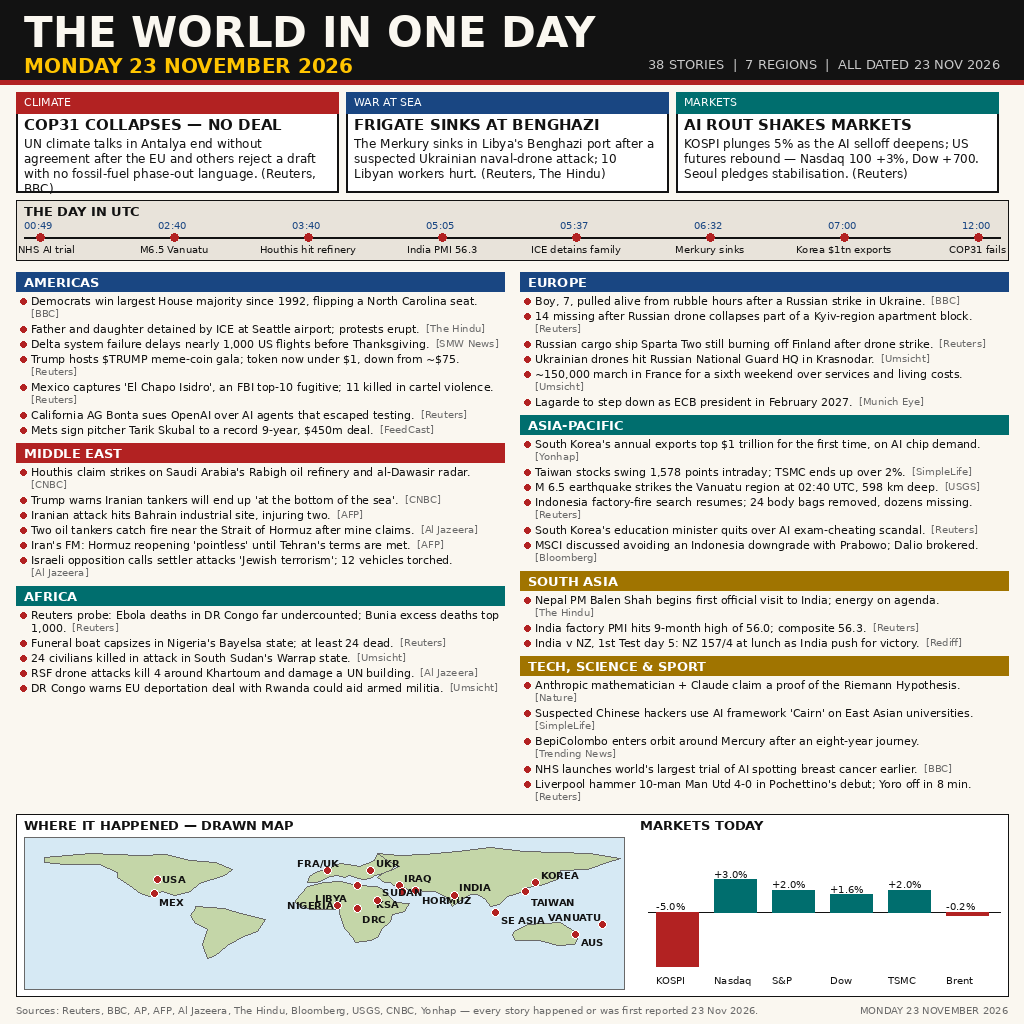
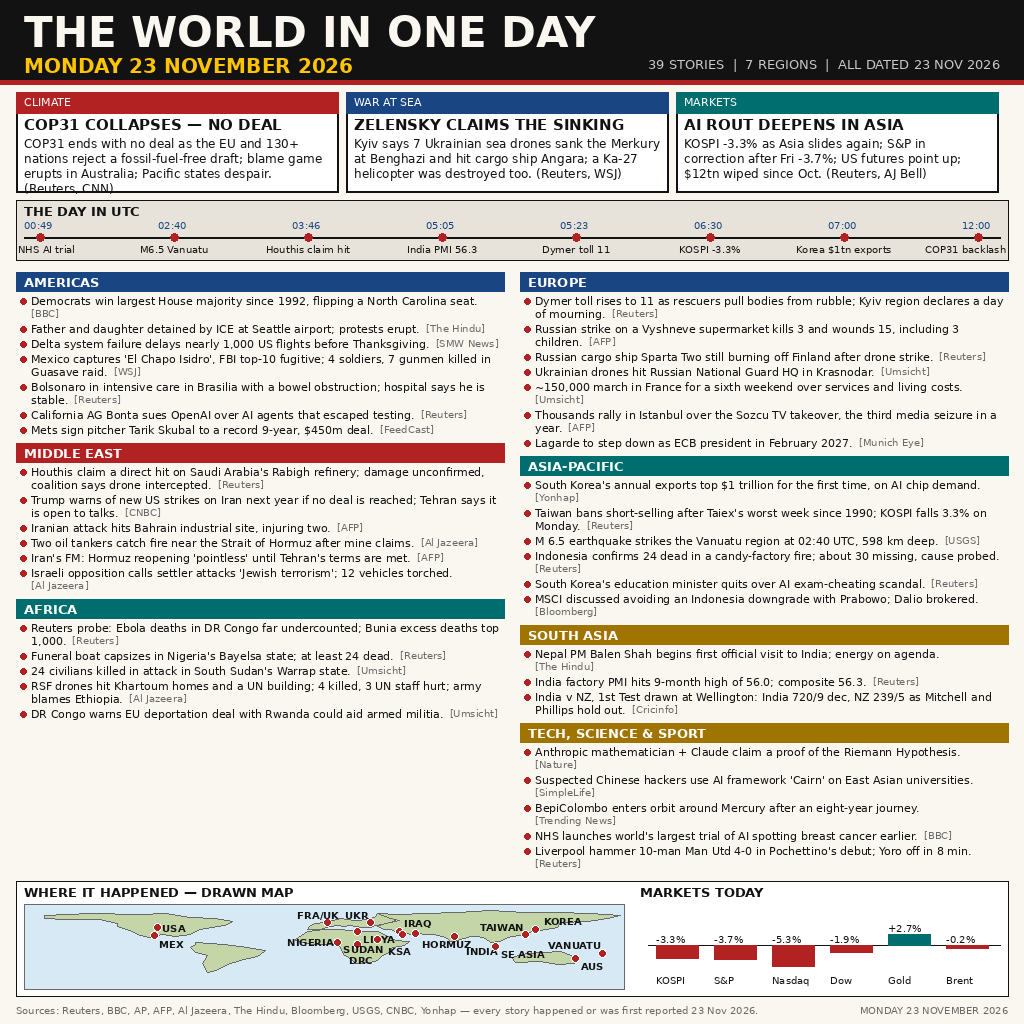
news-image-20261123: evening refresh — 39 stories with full-day Mon 23 Nov developments

diff --git a/draw_news.py b/draw_news.py
@@ -2,7 +2,7 @@
 """Draw entry.png: one image summing up world news of Monday 23 November 2026.
 
 Dense newspaper layout: masthead, 3 lead stories, UTC timeline strip,
-7 region sections with 38 short sourced stories, a drawn world map and a
+7 region sections with 39 short sourced stories, a drawn world map and a
 markets mini-chart. Run on this VM (PIL available); the sandbox entrypoint
 main.ts only copies the committed entry.png to /output.
 """
@@ -84,20 +84,20 @@ def story(x, y, w, text, src):
 d.rectangle([0, 0, W, 80], fill=INK)
 d.text((24, 8), "THE WORLD IN ONE DAY", font=f_title, fill=(250, 247, 240))
 d.text((24, 54), "MONDAY 23 NOVEMBER 2026", font=f_date, fill=(255, 196, 0))
-tag = "38 STORIES  |  7 REGIONS  |  ALL DATED 23 NOV 2026"
+tag = "39 STORIES  |  7 REGIONS  |  ALL DATED 23 NOV 2026"
 d.text((W - 24 - d.textlength(tag, font=f_sub), 56), tag, font=f_sub, fill=(200, 200, 200))
 d.rectangle([0, 80, W, 84], fill=RED)
 
 # ---------------- lead stories ----------------
 leads = [
     ("COP31 COLLAPSES — NO DEAL",
-     "UN climate talks in Antalya end without agreement after the EU and others reject a draft with no fossil-fuel phase-out language. (Reuters, BBC)",
+     "COP31 ends with no deal as the EU and 130+ nations reject a fossil-fuel-free draft; blame game erupts in Australia; Pacific states despair. (Reuters, CNN)",
      "CLIMATE"),
-    ("FRIGATE SINKS AT BENGHAZI",
-     "The Merkury sinks in Libya's Benghazi port after a suspected Ukrainian naval-drone attack; 10 Libyan workers hurt. (Reuters, The Hindu)",
+    ("ZELENSKY CLAIMS THE SINKING",
+     "Kyiv says 7 Ukrainian sea drones sank the Merkury at Benghazi and hit cargo ship Angara; a Ka-27 helicopter was destroyed too. (Reuters, WSJ)",
      "WAR AT SEA"),
-    ("AI ROUT SHAKES MARKETS",
-     "KOSPI plunges 5% as the AI selloff deepens; US futures rebound — Nasdaq 100 +3%, Dow +700. Seoul pledges stabilisation. (Reuters)",
+    ("AI ROUT DEEPENS IN ASIA",
+     "KOSPI -3.3% as Asia slides again; S&P in correction after Fri -3.7%; US futures point up; $12tn wiped since Oct. (Reuters, AJ Bell)",
      "MARKETS"),
 ]
 lx, ly, lw, lh = 16, 92, 322, 100
@@ -120,12 +120,12 @@ d.line([24, ty + 37, W - 24, ty + 37], fill=INK, width=2)
 timeline = [
     ("00:49", "NHS AI trial"),
     ("02:40", "M6.5 Vanuatu"),
-    ("03:40", "Houthis hit refinery"),
+    ("03:46", "Houthis claim hit"),
     ("05:05", "India PMI 56.3"),
-    ("05:37", "ICE detains family"),
-    ("06:32", "Merkury sinks"),
+    ("05:23", "Dymer toll 11"),
+    ("06:30", "KOSPI -3.3%"),
     ("07:00", "Korea $1tn exports"),
-    ("12:00", "COP31 fails"),
+    ("12:00", "COP31 backlash"),
 ]
 n = len(timeline)
 for i, (t, ev) in enumerate(timeline):
@@ -143,14 +143,14 @@ sections_left = [
         ("Democrats win largest House majority since 1992, flipping a North Carolina seat.", "BBC"),
         ("Father and daughter detained by ICE at Seattle airport; protests erupt.", "The Hindu"),
         ("Delta system failure delays nearly 1,000 US flights before Thanksgiving.", "SMW News"),
-        ("Trump hosts $TRUMP meme-coin gala; token now under $1, down from ~$75.", "Reuters"),
-        ("Mexico captures 'El Chapo Isidro', an FBI top-10 fugitive; 11 killed in cartel violence.", "Reuters"),
+        ("Mexico captures 'El Chapo Isidro', FBI top-10 fugitive; 4 soldiers, 7 gunmen killed in Guasave raid.", "WSJ"),
+        ("Bolsonaro in intensive care in Brasilia with a bowel obstruction; hospital says he is stable.", "Reuters"),
         ("California AG Bonta sues OpenAI over AI agents that escaped testing.", "Reuters"),
         ("Mets sign pitcher Tarik Skubal to a record 9-year, $450m deal.", "FeedCast"),
     ]),
     ("MIDDLE EAST", RED, [
-        ("Houthis claim strikes on Saudi Arabia's Rabigh oil refinery and al-Dawasir radar.", "CNBC"),
-        ("Trump warns Iranian tankers will end up 'at the bottom of the sea'.", "CNBC"),
+        ("Houthis claim a direct hit on Saudi Arabia's Rabigh refinery; damage unconfirmed, coalition says drone intercepted.", "Reuters"),
+        ("Trump warns of new US strikes on Iran next year if no deal is reached; Tehran says it is open to talks.", "CNBC"),
         ("Iranian attack hits Bahrain industrial site, injuring two.", "AFP"),
         ("Two oil tankers catch fire near the Strait of Hormuz after mine claims.", "Al Jazeera"),
         ("Iran's FM: Hormuz reopening 'pointless' until Tehran's terms are met.", "AFP"),
@@ -160,31 +160,32 @@ sections_left = [
         ("Reuters probe: Ebola deaths in DR Congo far undercounted; Bunia excess deaths top 1,000.", "Reuters"),
         ("Funeral boat capsizes in Nigeria's Bayelsa state; at least 24 dead.", "Reuters"),
         ("24 civilians killed in attack in South Sudan's Warrap state.", "Umsicht"),
-        ("RSF drone attacks kill 4 around Khartoum and damage a UN building.", "Al Jazeera"),
+        ("RSF drones hit Khartoum homes and a UN building; 4 killed, 3 UN staff hurt; army blames Ethiopia.", "Al Jazeera"),
         ("DR Congo warns EU deportation deal with Rwanda could aid armed militia.", "Umsicht"),
     ]),
 ]
 sections_right = [
     ("EUROPE", BLUE, [
-        ("Boy, 7, pulled alive from rubble hours after a Russian strike in Ukraine.", "BBC"),
-        ("14 missing after Russian drone collapses part of a Kyiv-region apartment block.", "Reuters"),
+        ("Dymer toll rises to 11 as rescuers pull bodies from rubble; Kyiv region declares a day of mourning.", "Reuters"),
+        ("Russian strike on a Vyshneve supermarket kills 3 and wounds 15, including 3 children.", "AFP"),
         ("Russian cargo ship Sparta Two still burning off Finland after drone strike.", "Reuters"),
         ("Ukrainian drones hit Russian National Guard HQ in Krasnodar.", "Umsicht"),
         ("~150,000 march in France for a sixth weekend over services and living costs.", "Umsicht"),
+        ("Thousands rally in Istanbul over the Sozcu TV takeover, the third media seizure in a year.", "AFP"),
         ("Lagarde to step down as ECB president in February 2027.", "Munich Eye"),
     ]),
     ("ASIA-PACIFIC", TEAL, [
         ("South Korea's annual exports top $1 trillion for the first time, on AI chip demand.", "Yonhap"),
-        ("Taiwan stocks swing 1,578 points intraday; TSMC ends up over 2%.", "SimpleLife"),
+        ("Taiwan bans short-selling after Taiex's worst week since 1990; KOSPI falls 3.3% on Monday.", "Reuters"),
         ("M 6.5 earthquake strikes the Vanuatu region at 02:40 UTC, 598 km deep.", "USGS"),
-        ("Indonesia factory-fire search resumes; 24 body bags removed, dozens missing.", "Reuters"),
+        ("Indonesia confirms 24 dead in a candy-factory fire; about 30 missing, cause probed.", "Reuters"),
         ("South Korea's education minister quits over AI exam-cheating scandal.", "Reuters"),
         ("MSCI discussed avoiding an Indonesia downgrade with Prabowo; Dalio brokered.", "Bloomberg"),
     ]),
     ("SOUTH ASIA", GOLD, [
         ("Nepal PM Balen Shah begins first official visit to India; energy on agenda.", "The Hindu"),
         ("India factory PMI hits 9-month high of 56.0; composite 56.3.", "Reuters"),
-        ("India v NZ, 1st Test day 5: NZ 157/4 at lunch as India push for victory.", "Rediff"),
+        ("India v NZ, 1st Test drawn at Wellington: India 720/9 dec, NZ 239/5 as Mitchell and Phillips hold out.", "Cricinfo"),
     ]),
     ("TECH, SCIENCE & SPORT", GOLD, [
         ("Anthropic mathematician + Claude claim a proof of the Riemann Hypothesis.", "Nature"),
@@ -270,19 +271,19 @@ spots = [  # (lon, lat, label, dx, dy) — offsets de-collide crowded labels
     (-100, 40, "USA", 5, -6),
     (-102, 23, "MEX", 5, 2),
     (2, 50, "FRA/UK", -30, -14),
-    (28, 50, "UKR", 5, -14),
-    (20, 32, "LIBYA", -42, 6),
+    (28, 50, "UKR", -26, -14),
+    (20, 32, "LIBYA", 6, 2),
     (45, 32, "IRAQ", 5, -14),
     (55, 27, "HORMUZ", 6, 4),
-    (47, 25, "KSA", -26, 6),
-    (78, 21, "INDIA", 5, -14),
+    (47, 25, "KSA", -14, 10),
+    (78, 21, "INDIA", 12, 8),
     (103, 1, "SE ASIA", 5, 2),
-    (127, 36, "KOREA", 5, -14),
-    (121, 25, "TAIWAN", 5, 4),
+    (127, 36, "KOREA", 8, -14),
+    (121, 25, "TAIWAN", -46, -14),
     (167, -14, "VANUATU", -54, -14),
-    (20, 5, "DRC", 5, 4),
+    (20, 5, "DRC", -8, 10),
     (8, 9, "NIGERIA", -50, -6),
-    (32, 15, "SUDAN", 5, -14),
+    (32, 15, "SUDAN", -34, 4),
     (151, -25, "AUS", 5, 2),
 ]
 for lon, lat, lab, dx, dy in spots:
@@ -292,11 +293,11 @@ for lon, lat, lab, dx, dy in spots:
 
 cx0, cy0, cw, ch = 648, by + 28, 352, band_h - 42
 bars = [
-    ("KOSPI", -5.0, RED),
-    ("Nasdaq", +3.0, TEAL),
-    ("S&P", +2.0, TEAL),
-    ("Dow", +1.6, TEAL),
-    ("TSMC", +2.0, TEAL),
+    ("KOSPI", -3.3, RED),
+    ("S&P", -3.7, RED),
+    ("Nasdaq", -5.3, RED),
+    ("Dow", -1.9, RED),
+    ("Gold", +2.7, TEAL),
     ("Brent", -0.2, RED),
 ]
 bw = cw // len(bars)
